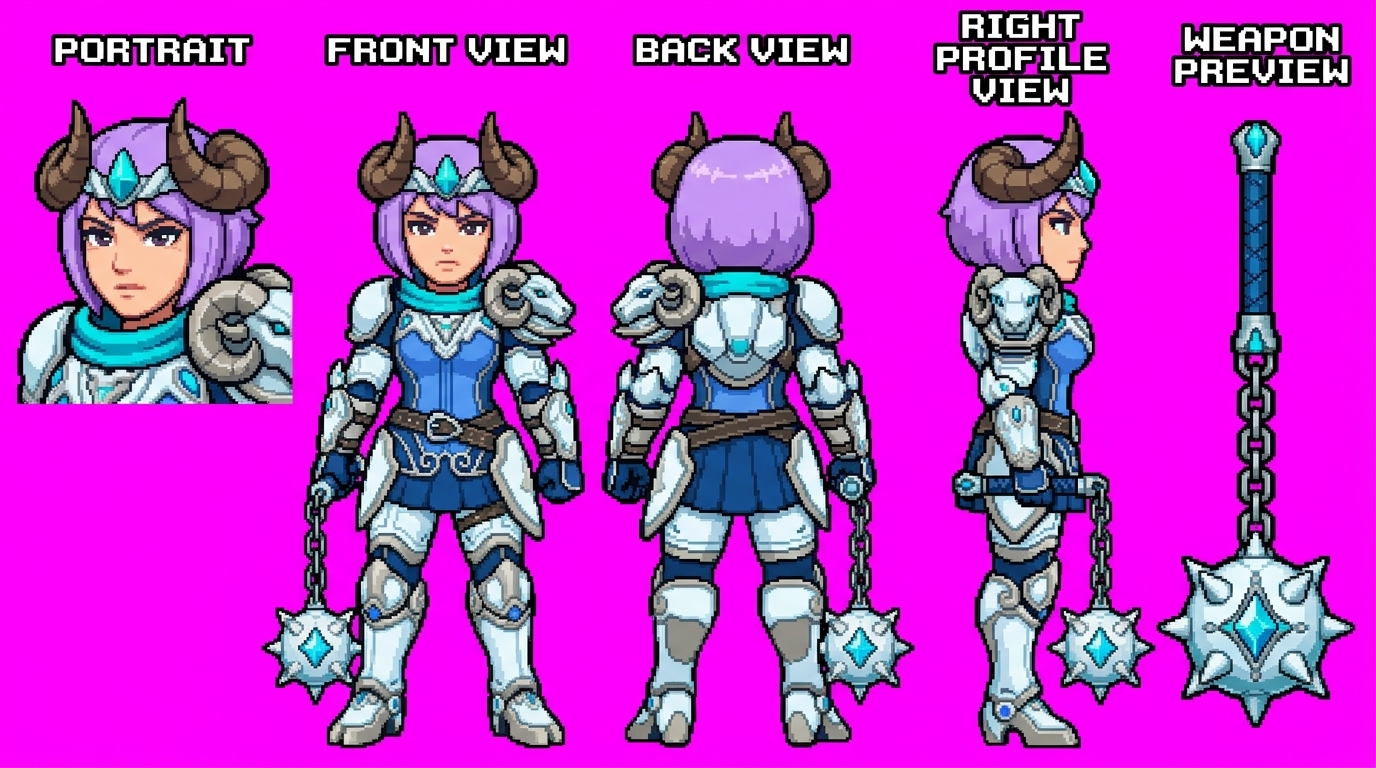
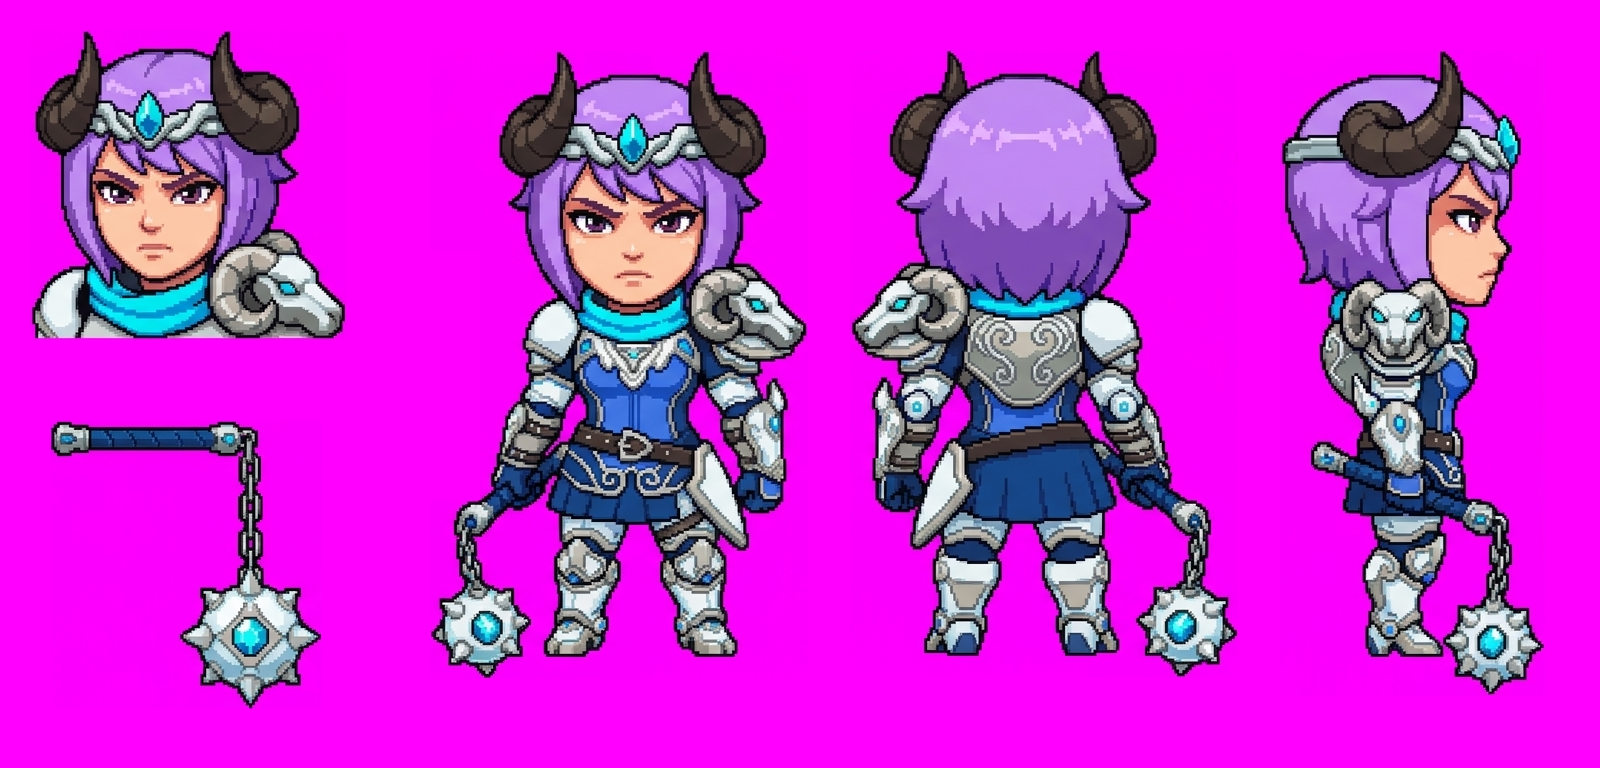
feat(pipeline): support 4-column stacked turnaround and update flail turnaround to 2.0 chibi standard

diff --git a/.agents/skills/character-animation-pipeline-updated/scripts/process_character_sheets.py b/.agents/skills/character-animation-pipeline-updated/scripts/process_character_sheets.py
@@ -582,7 +582,12 @@ def extract_turnaround_assets(
     bg_mode: str = "magenta",
     bg_tolerance: float = 65.0,
 ) -> tuple[Optional[Path], Optional[Path]]:
-    """Extract weapon preview (panel 5) and portrait (panel 1) from 5-in-1 turnaround sheet."""
+    """Extract weapon preview and portrait from turnaround sheet.
+    
+    Supports:
+    - 4-column turnaround (Column 1 contains stacked Portrait on top and Weapon Preview on bottom).
+    - Legacy 5-column turnaround (Panel 1 = Portrait, Panel 5 = Weapon Preview).
+    """
     if not turnaround_path.is_file():
         return None, None
 
@@ -590,39 +595,79 @@ def extract_turnaround_assets(
         rgba = detect_and_clean_background(np.asarray(raw.convert("RGBA")), bg_mode, bg_tolerance)
 
     h, w = rgba.shape[:2]
-    # Standard 5-panel turnaround has 5 horizontal sections
-    panel_w = w // 5
     out_dir.mkdir(parents=True, exist_ok=True)
-
-    # Panel 0: Portrait
-    portrait_panel = rgba[:, 0:panel_w]
-    ys, xs = np.where(portrait_panel[:, :, 3] > ALPHA_THRESHOLD)
     portrait_out: Optional[Path] = None
-    if len(xs):
-        crop = portrait_panel[ys.min():ys.max()+1, xs.min():xs.max()+1]
-        ch, cw = crop.shape[:2]
-        side = max(ch, cw)
-        sq = np.zeros((side, side, 4), dtype=np.uint8)
-        sq[(side - ch) // 2 : (side - ch) // 2 + ch, (side - cw) // 2 : (side - cw) // 2 + cw] = crop
-        res = Image.fromarray(sq, mode="RGBA").resize((96, 96), Image.Resampling.NEAREST)
-        portrait_out = out_dir / f"hero_{character_name}_portrait.png"
-        res.save(portrait_out)
-        _print(f"[OK] Extracted portrait from turnaround panel 1: {portrait_out}")
-
-    # Panel 4: Weapon Preview
-    weapon_panel = rgba[:, panel_w * 4 : w]
-    ys, xs = np.where(weapon_panel[:, :, 3] > ALPHA_THRESHOLD)
     weapon_out: Optional[Path] = None
-    if len(xs):
-        crop = weapon_panel[ys.min():ys.max()+1, xs.min():xs.max()+1]
-        ch, cw = crop.shape[:2]
-        side = max(ch, cw)
-        sq = np.zeros((side, side, 4), dtype=np.uint8)
-        sq[(side - ch) // 2 : (side - ch) // 2 + ch, (side - cw) // 2 : (side - cw) // 2 + cw] = crop
-        res = Image.fromarray(sq, mode="RGBA").resize((96, 96), Image.Resampling.NEAREST)
-        weapon_out = out_dir / f"weapon_{character_name}.png"
-        res.save(weapon_out)
-        _print(f"[OK] Extracted weapon icon from turnaround panel 5: {weapon_out}")
+
+    # Check first column (w // 4 for 4-column or w // 5 for 5-column)
+    col1_w_4 = w // 4
+    col1_w_5 = w // 5
+    
+    # Check if there is weapon content in the last column (5-column legacy layout)
+    panel5_legacy = rgba[:, col1_w_5 * 4 : w]
+    has_legacy_weapon = np.any(panel5_legacy[:, :, 3] > ALPHA_THRESHOLD)
+
+    if not has_legacy_weapon:
+        # Modern 4-column layout: Column 1 (0..w//4) has Portrait (top half) and Weapon (bottom half)
+        col1 = rgba[:, 0:col1_w_4]
+        mid_y = h // 2
+        top_half = col1[:mid_y, :]
+        bot_half = col1[mid_y:, :]
+
+        # Top half: Portrait
+        ys_p, xs_p = np.where(top_half[:, :, 3] > ALPHA_THRESHOLD)
+        if len(xs_p):
+            crop = top_half[ys_p.min():ys_p.max()+1, xs_p.min():xs_p.max()+1]
+            ch, cw = crop.shape[:2]
+            side = max(ch, cw)
+            sq = np.zeros((side, side, 4), dtype=np.uint8)
+            sq[(side - ch) // 2 : (side - ch) // 2 + ch, (side - cw) // 2 : (side - cw) // 2 + cw] = crop
+            res = Image.fromarray(sq, mode="RGBA").resize((96, 96), Image.Resampling.NEAREST)
+            portrait_out = out_dir / f"hero_{character_name}_portrait.png"
+            res.save(portrait_out)
+            _print(f"[OK] Extracted portrait from 4-col turnaround (col 1 top): {portrait_out}")
+
+        # Bottom half: Weapon Preview
+        ys_w, xs_w = np.where(bot_half[:, :, 3] > ALPHA_THRESHOLD)
+        if len(xs_w):
+            crop = bot_half[ys_w.min():ys_w.max()+1, xs_w.min():xs_w.max()+1]
+            ch, cw = crop.shape[:2]
+            side = max(ch, cw)
+            sq = np.zeros((side, side, 4), dtype=np.uint8)
+            sq[(side - ch) // 2 : (side - ch) // 2 + ch, (side - cw) // 2 : (side - cw) // 2 + cw] = crop
+            res = Image.fromarray(sq, mode="RGBA").resize((96, 96), Image.Resampling.NEAREST)
+            weapon_out = out_dir / f"weapon_{character_name}.png"
+            res.save(weapon_out)
+            _print(f"[OK] Extracted weapon icon from 4-col turnaround (col 1 bottom): {weapon_out}")
+
+    else:
+        # Legacy 5-panel layout: Panel 0 = Portrait, Panel 4 = Weapon Preview
+        panel_w = col1_w_5
+        portrait_panel = rgba[:, 0:panel_w]
+        ys, xs = np.where(portrait_panel[:, :, 3] > ALPHA_THRESHOLD)
+        if len(xs):
+            crop = portrait_panel[ys.min():ys.max()+1, xs.min():xs.max()+1]
+            ch, cw = crop.shape[:2]
+            side = max(ch, cw)
+            sq = np.zeros((side, side, 4), dtype=np.uint8)
+            sq[(side - ch) // 2 : (side - ch) // 2 + ch, (side - cw) // 2 : (side - cw) // 2 + cw] = crop
+            res = Image.fromarray(sq, mode="RGBA").resize((96, 96), Image.Resampling.NEAREST)
+            portrait_out = out_dir / f"hero_{character_name}_portrait.png"
+            res.save(portrait_out)
+            _print(f"[OK] Extracted portrait from turnaround panel 1: {portrait_out}")
+
+        weapon_panel = panel5_legacy
+        ys, xs = np.where(weapon_panel[:, :, 3] > ALPHA_THRESHOLD)
+        if len(xs):
+            crop = weapon_panel[ys.min():ys.max()+1, xs.min():xs.max()+1]
+            ch, cw = crop.shape[:2]
+            side = max(ch, cw)
+            sq = np.zeros((side, side, 4), dtype=np.uint8)
+            sq[(side - ch) // 2 : (side - ch) // 2 + ch, (side - cw) // 2 : (side - cw) // 2 + cw] = crop
+            res = Image.fromarray(sq, mode="RGBA").resize((96, 96), Image.Resampling.NEAREST)
+            weapon_out = out_dir / f"weapon_{character_name}.png"
+            res.save(weapon_out)
+            _print(f"[OK] Extracted weapon icon from turnaround panel 5: {weapon_out}")
 
     return portrait_out, weapon_out
 

diff --git a/.agents/skills/character-animation-pipeline-updated/prompts/01_TURNAROUND.md b/.agents/skills/character-animation-pipeline-updated/prompts/01_TURNAROUND.md
@@ -15,20 +15,26 @@ Four full-body standing views arranged horizontally left-to-right on one canvas:
 4. `LEFT` — Strict left-facing profile view.
    **MANDATORY PROFILE RULE**: The character's **body is ALWAYS turned sideways**, and the **face is strictly in profile**. No 3/4 turn.
 
-### Option B: 5-in-1 Character Reference Canvas (Default Standard)
-A single reference canvas with 5 designated panels arranged horizontally on pure magenta:
-1. `Portrait` (96×96 close-up crop of face and headgear).
-2. `Front Full-Body` (96×96 frontal chibi sprite).
-3. `Back Full-Body` (96×96 rear chibi sprite).
-4. `Right Profile Full-Body` (96×96 profile chibi sprite: body sideways, face in strict profile).
-5. `Weapon Preview` (isolated 96×96 preview of the held weapon/focus — automatically sliced by script into `weapon_<name>.png`).
+### Option B: 4-Column Turnaround with Stacked Focus Column (Default Standard)
+A single reference canvas with 4 vertical columns on pure magenta (`#ff00ff`):
+1. **Column 1: Close-up & Focus Column (Stacked Vertically with >= 40px magenta gutter between them)**:
+   - **Top Panel**: `Portrait` (96×96 close-up bust portrait of head, horns/cowl, face, neck collar/scarf, and pauldron). Centered vertically in top half.
+   - **Bottom Panel**: `Weapon Preview` (isolated 96×96 preview of held weapon/focus, e.g. flail handle, chain, and spiked mace head). Centered vertically in bottom half.
+2. **Column 2: Front Full-Body View**:
+   - `FRONT` (96×96 frontal chibi sprite: 2.0–2.4 heads, massive head wider than shoulders, compact stubby torso, grounded baseline `y ≈ 88`, holding weapon).
+3. **Column 3: Back Full-Body View**:
+   - `BACK` (96×96 rear chibi sprite: 100% rear view of hair, horns, backplate, skirt; NO face, NO eyes).
+4. **Column 4: Right Profile Full-Body View**:
+   - `RIGHT` (96×96 right profile chibi sprite: body strictly turned sideways, face strictly in side profile, holding weapon).
 
 ---
 
 ## 2. Safe Margins & Anti-Overlap Gutter Contract
 
 To prevent adjacent figures or outstretched weapons from bleeding into neighboring panel crops:
-* **Generous Gutter Spacing**: Maintain **at least 40–50 pixels of pure empty solid magenta background** between each of the 5 panels. Figures and weapon tips MUST NEVER touch, overlap, or cross panel boundaries.
+* **Generous Horizontal & Vertical Gutter Spacing**: Maintain **at least 40–50 pixels of pure empty solid magenta background** between each column, and **at least 40–50 pixels between Portrait (top) and Weapon Preview (bottom)** in Column 1.
+* **No Cutoffs**: Entire bust portrait (including ram horns, tips of ears/hair) and weapon head/chain must have at least 15–20px magenta margin from canvas borders to avoid cutoff.
+* **No Text Clutter in Cropped Zones**: Do not place large or duplicate text labels inside the sprite bounding boxes.
 * **Compact Poses**: Characters stand in a compact grounded posture with held weapons oriented vertically or angled close to the body, keeping silhouettes neatly centered within their panel area.
 
 ---
